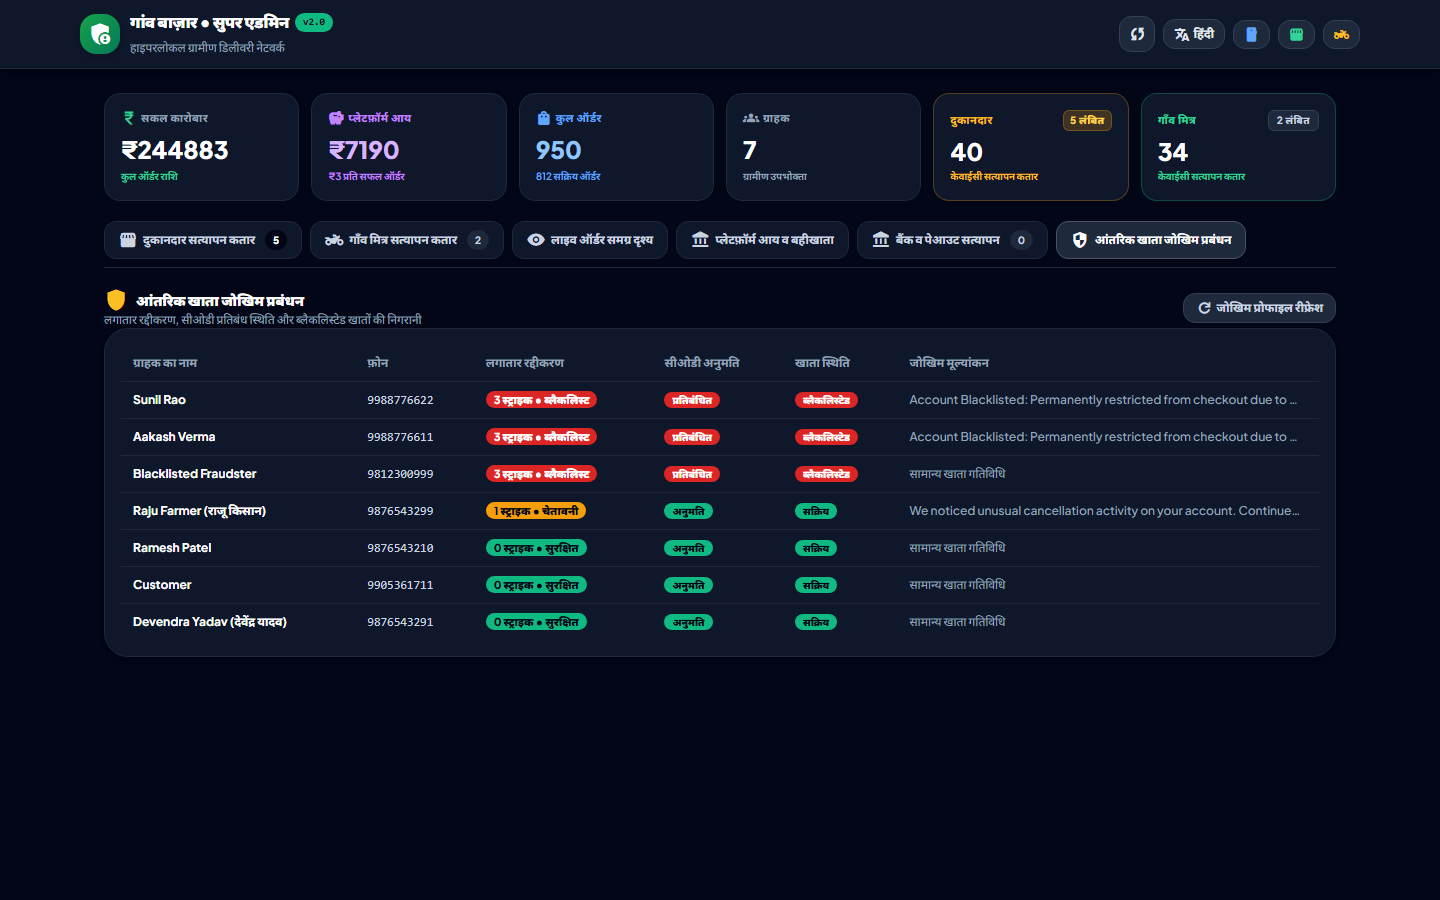
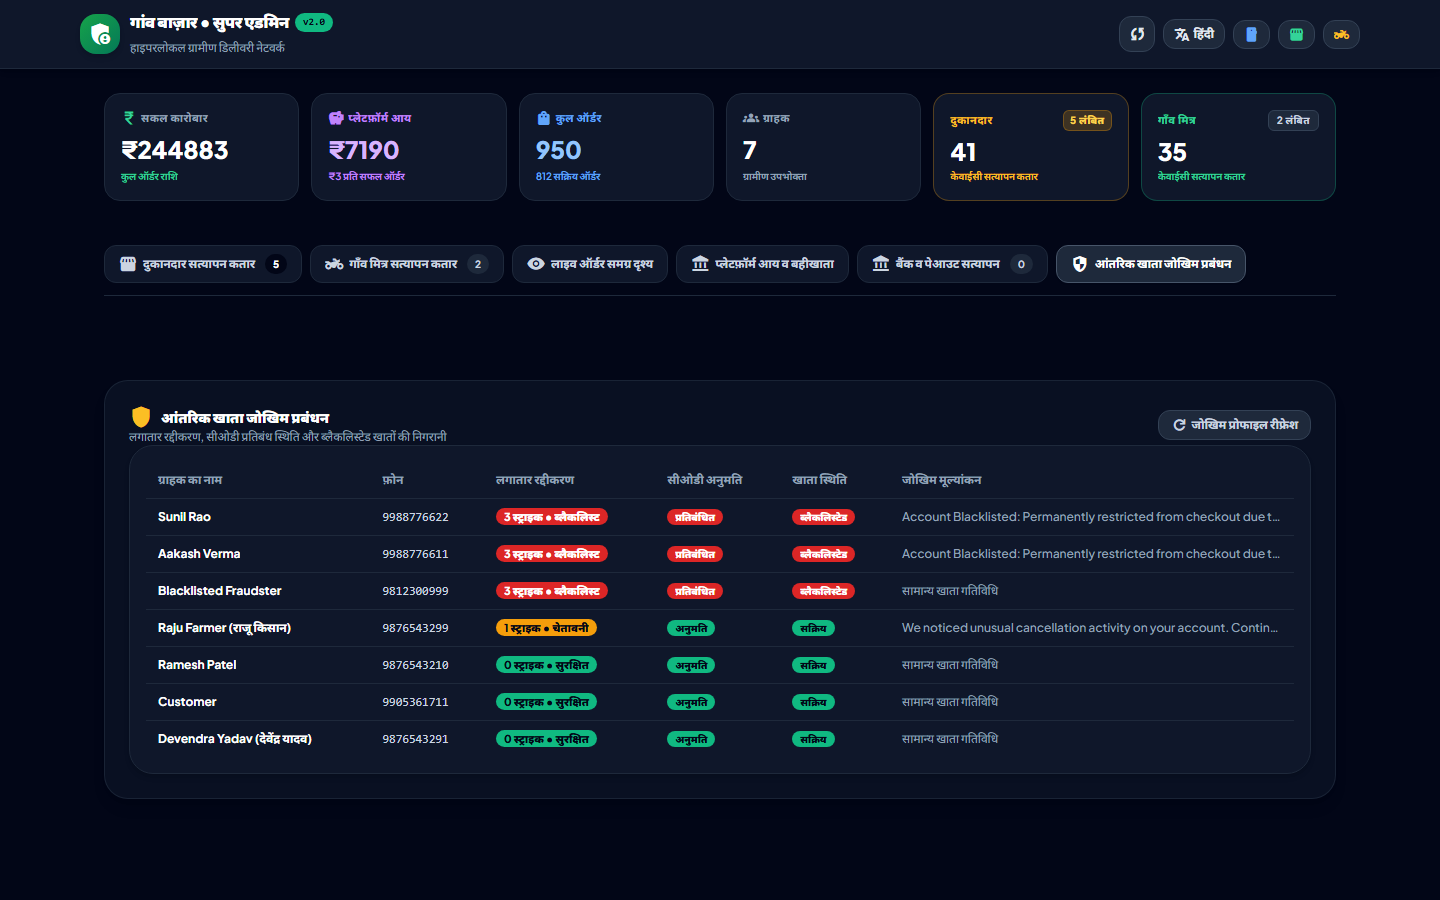
fix(admin): resolve CSS box-model clipping and enforce strict section margins and breathing room on 360px mobile

diff --git a/admin_dashboard.html b/admin_dashboard.html
@@ -156,7 +156,7 @@
     <!-- ======================================================================= -->
     <!-- 2. GLOBAL ECOSYSTEM METRICS RIBBON                                      -->
     <!-- ======================================================================= -->
-    <section class="grid grid-cols-2 md:grid-cols-3 lg:grid-cols-6 gap-3">
+    <section class="grid grid-cols-2 md:grid-cols-3 lg:grid-cols-6 gap-3 mb-6 shrink-0 relative">
       
       <!-- Metric 1: Total GMV -->
       <div class="bg-slate-900 rounded-2xl p-4 border border-slate-800 flex flex-col justify-between">
@@ -223,7 +223,7 @@
     <!-- ======================================================================= -->
     <!-- 3. MAIN NAVIGATION TABS (Super Admin Controls - Mobile-First Scrollable) -->
     <!-- ======================================================================= -->
-    <div class="flex items-center gap-2 border-b border-slate-800 pb-2 overflow-x-auto no-scrollbar">
+    <div class="flex items-center gap-2 border-b border-slate-800 pb-3 mb-6 overflow-x-auto no-scrollbar shrink-0 relative">
       
       <!-- Tab 1: Vendor KYC Queue -->
       <button id="admin-tab-btn-vendors" onclick="switchTab('vendors')" class="px-3.5 py-2 rounded-xl text-xs font-bold flex items-center gap-1.5 bg-slate-800 text-white border border-slate-600 shadow-sm transition-all whitespace-nowrap shrink-0 min-h-[38px]">
@@ -269,7 +269,7 @@
     <!-- ======================================================================= -->
     <!-- 9. TAB 6: BANK & PAYOUT KYC VERIFICATION QUEUE                          -->
     <!-- ======================================================================= -->
-    <section id="tab-bank" class="hidden flex-col gap-4">
+    <section id="tab-bank" class="hidden mt-10 shrink-0 flex-col gap-6 p-4 sm:p-6 bg-slate-900/60 rounded-3xl border border-slate-800/80 shadow-lg" style="margin-top: 40px;">
       <div class="flex flex-wrap items-center justify-between gap-2.5">
         <div>
           <h2 class="text-sm sm:text-base font-black text-white flex items-center gap-2">
@@ -315,32 +315,32 @@
     <!-- ======================================================================= -->
     <!-- 4. TAB 1: VENDOR KYC APPROVAL QUEUE                                     -->
     <!-- ======================================================================= -->
-    <section id="tab-vendors" class="flex flex-col gap-4">
+    <section id="tab-vendors" class="mt-10 shrink-0 flex flex-col gap-6 p-4 sm:p-6 bg-slate-900/60 rounded-3xl border border-slate-800/80 shadow-lg" style="margin-top: 40px;">
       
-      <div class="flex flex-wrap items-center justify-between gap-2.5">
-        <div>
-          <h2 class="text-sm sm:text-base font-black text-white flex items-center gap-2">
-            <span class="material-symbols-outlined text-slate-400 text-[20px]">storefront</span>
+      <div class="flex flex-col sm:flex-row sm:items-center justify-between gap-4 pb-3 border-b border-slate-800/70">
+        <div class="flex flex-col gap-1">
+          <h2 class="text-sm sm:text-base font-black text-white flex items-center gap-2.5">
+            <span class="material-symbols-outlined text-slate-400 text-[22px]">storefront</span>
             <span data-i18n="vendor_queue_title">दुकानदार सत्यापन कतार</span>
           </h2>
-          <p class="text-xs text-slate-400" data-i18n="vendor_queue_sub">दुकान का विवरण और केवाईसी जांचें।</p>
+          <p class="text-xs text-slate-400 mt-0.5" data-i18n="vendor_queue_sub">दुकान का विवरण और केवाईसी जांचें।</p>
         </div>
 
-        <div class="flex items-center gap-2">
-          <button onclick="fetchPendingVendors('pending_approval')" class="px-3 py-1 rounded-xl text-xs font-bold bg-amber-500/20 text-amber-300 border border-amber-500/30">
+        <div class="flex items-center gap-2.5 shrink-0 pt-1 sm:pt-0">
+          <button onclick="fetchPendingVendors('pending_approval')" class="px-3.5 py-1.5 rounded-xl text-xs font-bold bg-amber-500/20 text-amber-300 border border-amber-500/30 hover:bg-amber-500/30 active:scale-95 transition-all">
             <span data-i18n="pending_only">केवल लंबित</span>
           </button>
-          <button onclick="fetchPendingVendors('all')" class="px-3 py-1 rounded-xl text-xs font-bold bg-slate-800 text-slate-400 hover:text-slate-200">
+          <button onclick="fetchPendingVendors('all')" class="px-3.5 py-1.5 rounded-xl text-xs font-bold bg-slate-800 text-slate-300 hover:text-white border border-slate-700 active:scale-95 transition-all">
             <span data-i18n="all_records">सभी रिकॉर्ड</span>
           </button>
         </div>
       </div>
 
       <!-- Pending Vendors Cards / Grid Container (Horizontal scroll on narrow viewports) -->
-      <div class="overflow-x-auto pb-3 w-full">
-        <div id="vendors-approval-container" class="grid grid-cols-1 md:grid-cols-2 lg:grid-cols-3 gap-3.5 w-full min-w-0">
+      <div class="overflow-x-auto pb-4 w-full">
+        <div id="vendors-approval-container" class="grid grid-cols-1 md:grid-cols-2 lg:grid-cols-3 gap-4 w-full min-w-0">
           <!-- Rendered dynamically -->
-          <div class="col-span-full bg-slate-900 rounded-3xl p-8 border border-slate-800 text-center text-slate-400 text-xs">
+          <div class="col-span-full bg-slate-900 rounded-3xl p-8 sm:p-10 border border-slate-800 text-center text-slate-400 text-xs flex flex-col items-center justify-center gap-2">
             Loading vendor applications...
           </div>
         </div>
@@ -351,32 +351,32 @@
     <!-- ======================================================================= -->
     <!-- 5. TAB 2: RUNNER KYC APPROVAL QUEUE                                     -->
     <!-- ======================================================================= -->
-    <section id="tab-runners" class="hidden flex-col gap-4">
+    <section id="tab-runners" class="hidden mt-10 shrink-0 flex-col gap-6 p-4 sm:p-6 bg-slate-900/60 rounded-3xl border border-slate-800/80 shadow-lg" style="margin-top: 40px;">
       
-      <div class="flex flex-wrap items-center justify-between gap-2.5">
-        <div>
-          <h2 class="text-sm sm:text-base font-black text-white flex items-center gap-2">
-            <span class="material-symbols-outlined text-amber-400">two_wheeler</span>
+      <div class="flex flex-col sm:flex-row sm:items-center justify-between gap-4 pb-3 border-b border-slate-800/70">
+        <div class="flex flex-col gap-1">
+          <h2 class="text-sm sm:text-base font-black text-white flex items-center gap-2.5">
+            <span class="material-symbols-outlined text-amber-400 text-[22px]">two_wheeler</span>
             <span data-i18n="runner_queue_title">गाँव मित्र सत्यापन कतार</span>
           </h2>
-          <p class="text-xs text-slate-400" data-i18n="runner_queue_sub">गाँव मित्र डिलीवरी पार्टनर और वाहन विवरण जांचें।</p>
+          <p class="text-xs text-slate-400 mt-0.5" data-i18n="runner_queue_sub">गाँव मित्र डिलीवरी पार्टनर और वाहन विवरण जांचें।</p>
         </div>
 
-        <div class="flex items-center gap-2">
-          <button onclick="fetchPendingRunners('pending_approval')" class="px-3 py-1 rounded-xl text-xs font-bold bg-amber-500/20 text-amber-300 border border-amber-500/30">
+        <div class="flex items-center gap-2.5 shrink-0 pt-1 sm:pt-0">
+          <button onclick="fetchPendingRunners('pending_approval')" class="px-3.5 py-1.5 rounded-xl text-xs font-bold bg-amber-500/20 text-amber-300 border border-amber-500/30 hover:bg-amber-500/30 active:scale-95 transition-all">
             <span data-i18n="pending_only">केवल लंबित</span>
           </button>
-          <button onclick="fetchPendingRunners('all')" class="px-3 py-1 rounded-xl text-xs font-bold bg-slate-800 text-slate-400 hover:text-slate-200">
+          <button onclick="fetchPendingRunners('all')" class="px-3.5 py-1.5 rounded-xl text-xs font-bold bg-slate-800 text-slate-300 hover:text-white border border-slate-700 active:scale-95 transition-all">
             <span data-i18n="all_records">सभी रिकॉर्ड</span>
           </button>
         </div>
       </div>
 
       <!-- Pending Runners Cards / Grid Container (Horizontal scroll on narrow viewports) -->
-      <div class="overflow-x-auto pb-3 w-full">
-        <div id="runners-approval-container" class="grid grid-cols-1 md:grid-cols-2 lg:grid-cols-3 gap-3.5 w-full min-w-0">
+      <div class="overflow-x-auto pb-4 w-full">
+        <div id="runners-approval-container" class="grid grid-cols-1 md:grid-cols-2 lg:grid-cols-3 gap-4 w-full min-w-0">
           <!-- Rendered dynamically -->
-          <div class="col-span-full bg-slate-900 rounded-3xl p-8 border border-slate-800 text-center text-slate-400 text-xs">
+          <div class="col-span-full bg-slate-900 rounded-3xl p-8 sm:p-10 border border-slate-800 text-center text-slate-400 text-xs flex flex-col items-center justify-center gap-2">
             Loading runner applications...
           </div>
         </div>
@@ -387,7 +387,7 @@
     <!-- ======================================================================= -->
     <!-- 6. TAB 3: LIVE ORDER GOD-VIEW                                           -->
     <!-- ======================================================================= -->
-    <section id="tab-orders" class="hidden flex-col gap-4">
+    <section id="tab-orders" class="hidden mt-10 shrink-0 flex-col gap-6 p-4 sm:p-6 bg-slate-900/60 rounded-3xl border border-slate-800/80 shadow-lg" style="margin-top: 40px;">
       
       <div class="flex items-center justify-between">
         <div>
@@ -429,7 +429,7 @@
     <!-- ======================================================================= -->
     <!-- 7. TAB 4: COMMISSION & PAYOUT LEDGER                                    -->
     <!-- ======================================================================= -->
-    <section id="tab-ledger" class="hidden flex-col gap-4">
+    <section id="tab-ledger" class="hidden mt-10 shrink-0 flex-col gap-6 p-4 sm:p-6 bg-slate-900/60 rounded-3xl border border-slate-800/80 shadow-lg" style="margin-top: 40px;">
       
       <div class="flex items-center justify-between">
         <div>
@@ -495,7 +495,7 @@
     <!-- ======================================================================= -->
     <!-- 7.5 TAB 5: ACCOUNT RISK PROFILE & CONSECUTIVE CANCELLATIONS             -->
     <!-- ======================================================================= -->
-    <section id="tab-risk" class="hidden flex-col gap-4">
+    <section id="tab-risk" class="hidden mt-10 shrink-0 flex-col gap-6 p-4 sm:p-6 bg-slate-900/60 rounded-3xl border border-slate-800/80 shadow-lg" style="margin-top: 40px;">
       
       <div class="flex items-center justify-between">
         <div>
@@ -995,8 +995,9 @@
       const vendors = AdminStore.vendors;
       if (vendors.length === 0) {
         container.innerHTML = `
-          <div class="col-span-full bg-slate-900 rounded-3xl p-8 border border-slate-800 text-center text-slate-400 text-xs">
-            ${dict.empty_vendors}
+          <div class="col-span-full bg-slate-900 rounded-3xl p-8 sm:p-10 border border-slate-800 text-center text-slate-400 text-xs flex flex-col items-center justify-center gap-3">
+            <span class="material-symbols-outlined text-slate-600 text-[36px]">storefront</span>
+            <span class="font-medium text-slate-300">${dict.empty_vendors}</span>
           </div>
         `;
         return;
@@ -1097,8 +1098,9 @@
       const runners = AdminStore.runners;
       if (runners.length === 0) {
         container.innerHTML = `
-          <div class="col-span-full bg-slate-900 rounded-3xl p-8 border border-slate-800 text-center text-slate-400 text-xs">
-            ${dict.empty_runners}
+          <div class="col-span-full bg-slate-900 rounded-3xl p-8 sm:p-10 border border-slate-800 text-center text-slate-400 text-xs flex flex-col items-center justify-center gap-3">
+            <span class="material-symbols-outlined text-slate-600 text-[36px]">two_wheeler</span>
+            <span class="font-medium text-slate-300">${dict.empty_runners}</span>
           </div>
         `;
         return;
